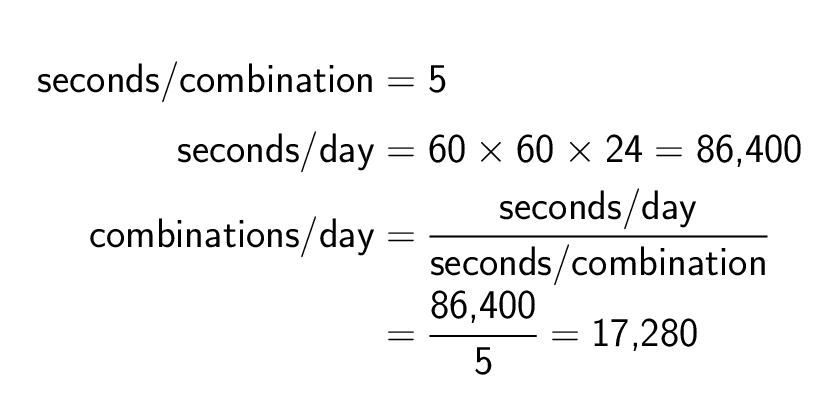
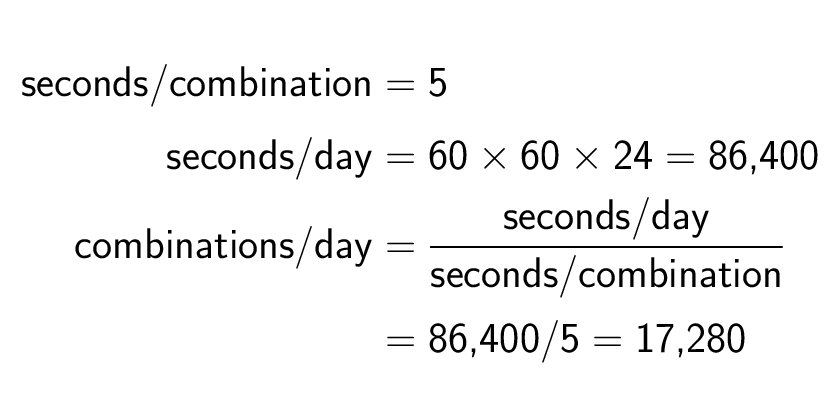
tweaked spacing in brute-force-daily-rate image

Changed region(s): [[0.0929, 0.48, 0.9286, 0.93], [0.1857, 0.33, 0.9905, 0.45], [0.031, 0.15, 0.5571, 0.24]]

diff --git a/notebooks/images/latex/brute-force-daily-rate.tex b/notebooks/images/latex/brute-force-daily-rate.tex
@@ -14,7 +14,7 @@
         seconds/combination &= 5 \\
         seconds/day &= 60 \times 60 \times 24 = 86{,}400 \\
         combinations/day &= \frac{seconds/day}{seconds/combination} \\
-        &= \frac{86{,}400}{5} = 17{,}280
+        &= 86{,}400/5 = 17{,}280
     \end{align*}
 }
 
